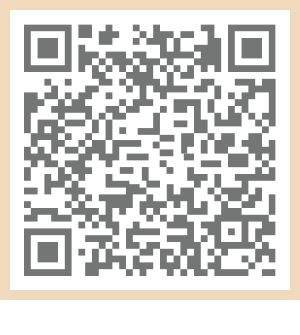
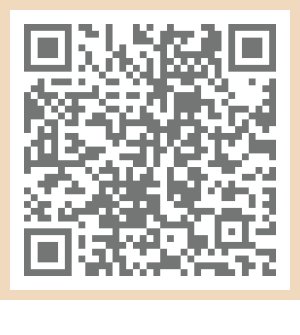
check in

Changed region(s): [[0.06, 0.0597, 0.93, 0.8358], [0.09, 0.0896, 0.21, 0.1194]]

diff --git a/static/scripts/app/check_in.js b/static/scripts/app/check_in.js
@@ -279,7 +279,7 @@ org.checin_in = (function () {
                 _self.appShare.touchShare({
                     title: '每日签到title',
                     content: '每日签到content',
-                    shareUrl: 'http://192.168.20.45:8000/api/m/check-in-share/'
+                    shareUrl: 'https://staging.wanglibao.com/api/m/check-in-share/'
                 })
             });
 

diff --git a/static/src/app/check_in.js b/static/src/app/check_in.js
@@ -60,7 +60,7 @@ org.checin_in = (function () {
                 _self.appShare.touchShare({
                     title: '每日签到title',
                     content: '每日签到content',
-                    shareUrl: 'http://192.168.20.45:8000/api/m/check-in-share/'
+                    shareUrl: 'https://staging.wanglibao.com/api/m/check-in-share/'
                 })
             });
 
